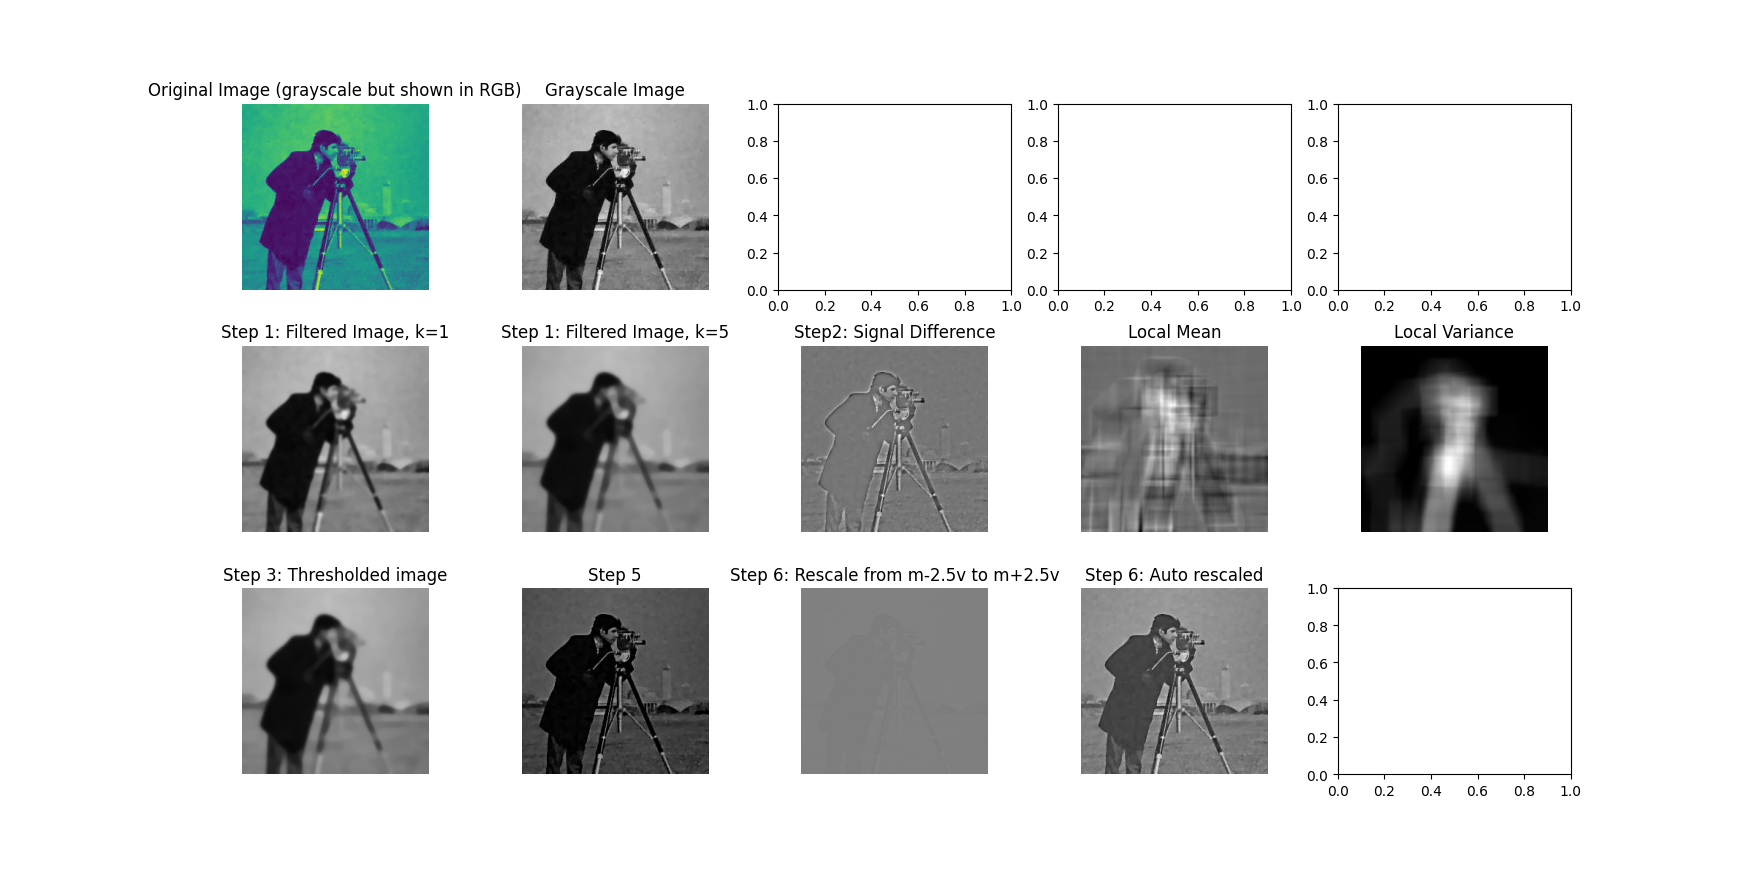
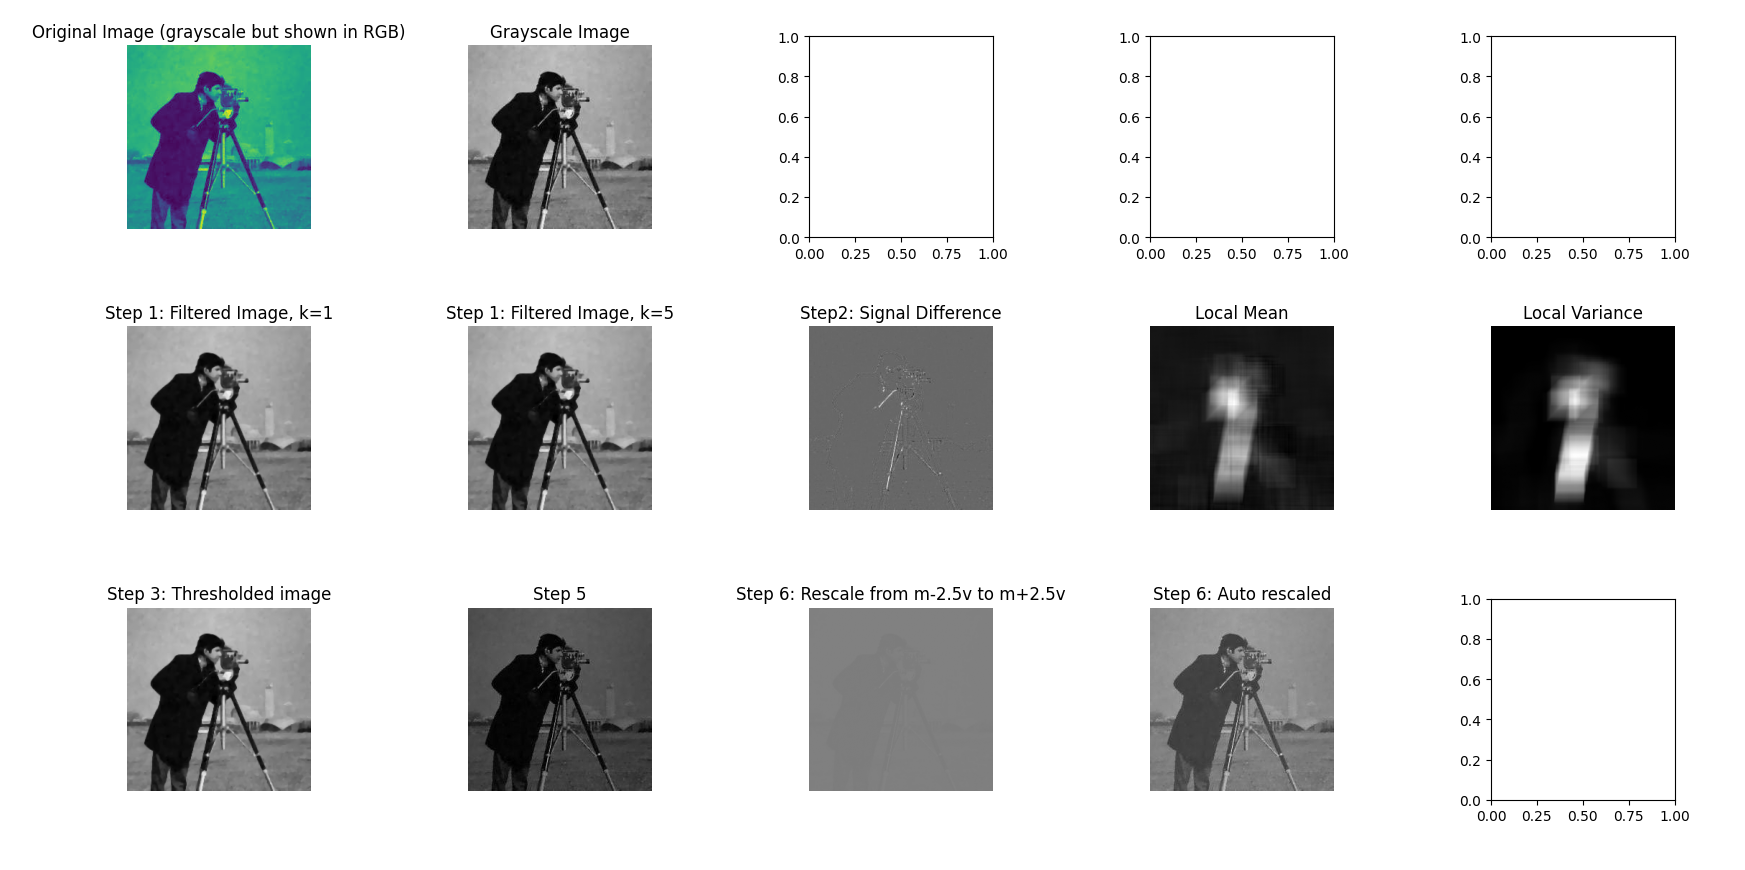
feat: cluster filter v3

diff --git a/src/main.py b/src/main.py
@@ -21,10 +21,12 @@ change here
 #     "./assets/MRI/ADNI_002_S_1155_274154_ACPC/ADNI_002_S_1155_274154_ACPC_150.jpg"
 # )
 # image_path = "./assets/camera_man.jpeg"
-image_path = "./assets/MRI/Test.jpg"
+# image_path = "./assets/MRI/Test.jpg"
 # image_path = "./assets/black_white.jpg"
 # image_path = "./assets/Lena_noisy.jpeg"
 # image_path = "./assets/DIP3E_Problem_Figures/CH10_Problem_Figures/FigP1007(b).tif"
+# image_path = "./assets/DIP3E_Problem_Figures/CH04_Problem_Figures/FigP0438(a).tif"
+image_path = "./assets/DIP3E_Problem_Figures/CH05_Problem_Figures/FigP0520.tif"
 # image_path = "./assets/salt_and_pepper.png"
 image_name = image_path.split("/")[-1]
 output_path = "./output/" + image_name

diff --git a/src/filter.py b/src/filter.py
@@ -243,7 +243,7 @@ def edge_preserve_filter(image, k=5, alpha=0.5, kernel_size=11):
             filtered_image, alpha, kernel_size=kernel_size
         )
         # plot_img(axs[0, 2], starting_image, "Starting Image", cmap=plt.get_cmap("gray"))
-        filtered_image = cluster_filter_v3(
+        filtered_image = cluster_filter_v3(  # original paper have some ambiguity, but cluster_filter_v3 seems to be the right implementation
             image, starting_image, alpha, beta, kernel_size=kernel_size
         )
         if i == 0:
